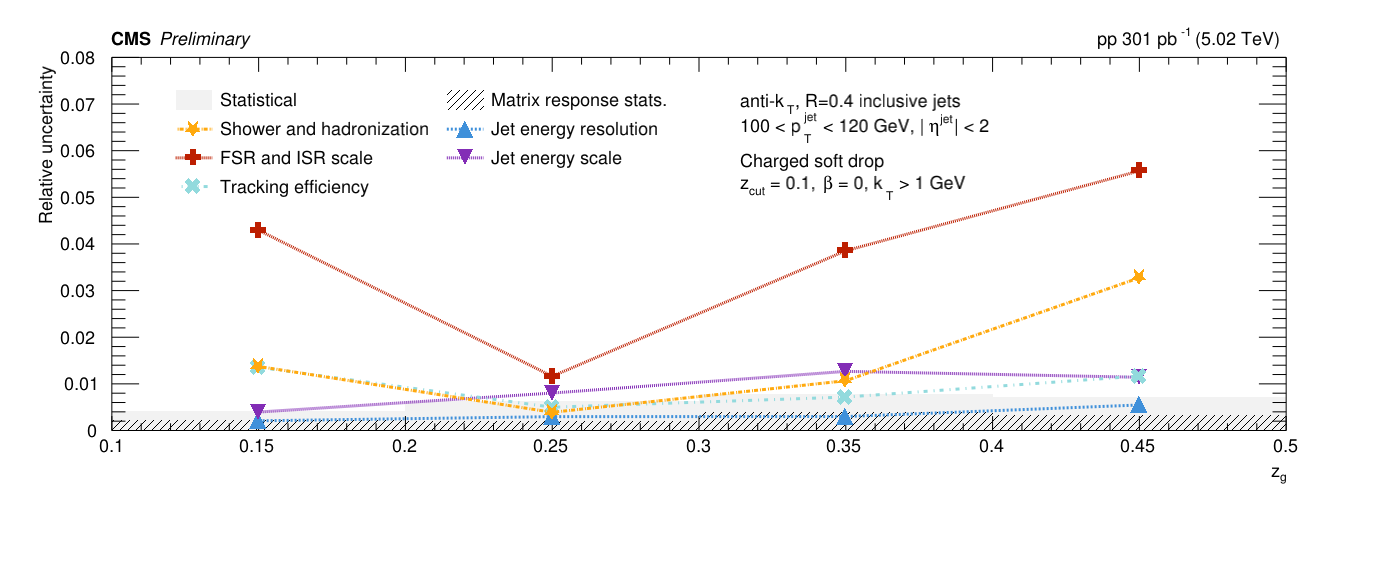
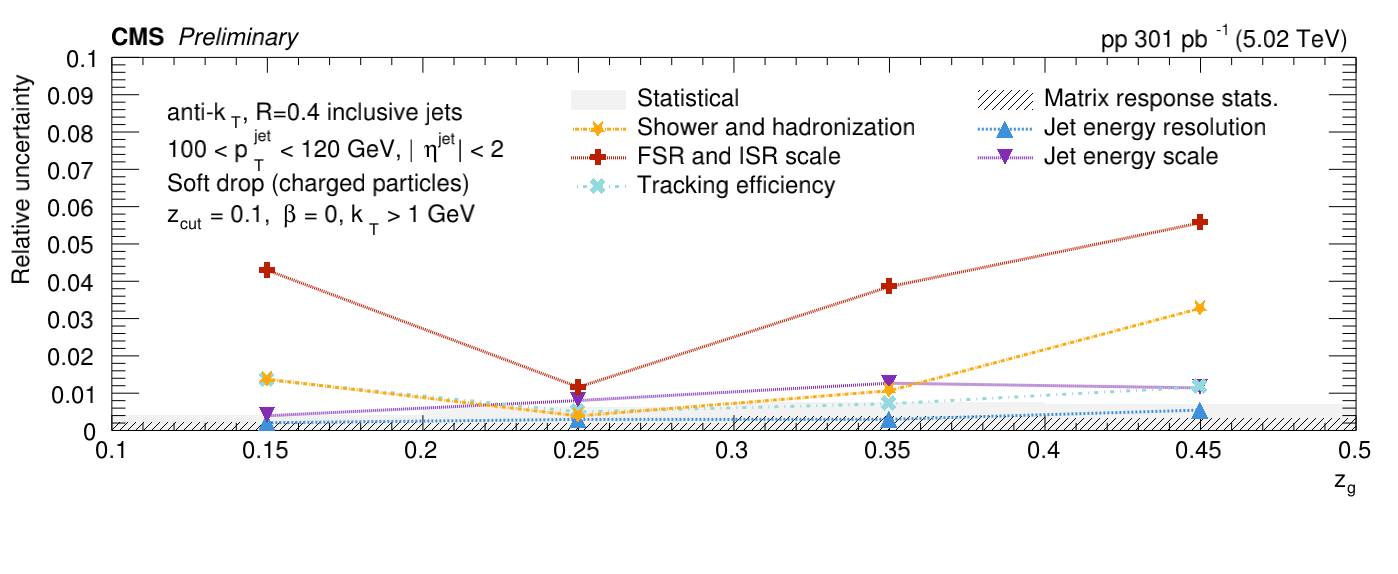
make text bigger in inclusive jet unc plots

diff --git a/myMacros/C106X/uncertanties/draw_unc_sym_inclusive.C b/myMacros/C106X/uncertanties/draw_unc_sym_inclusive.C
@@ -11,7 +11,7 @@ void draw_unc_sym_inclusive(TString observable="rg")
     // Setup
     gStyle->SetCanvasPreferGL(kTRUE);
     gStyle->SetErrorX(0.5);
-    Float_t text_size = 20.;
+    Float_t text_size = 28.;
     gStyle->SetTextSize(text_size);
     gStyle->SetLegendTextSize(text_size);
     gStyle->SetLabelSize(text_size, "XYZ");
@@ -28,7 +28,7 @@ void draw_unc_sym_inclusive(TString observable="rg")
     int nbins_pt = 3;
     
     TCanvas *c_unc = new TCanvas("c_unc", "", 1400,600);
-    c_unc->SetRightMargin(0.08);
+    c_unc->SetRightMargin(0.03);
     c_unc->SetLeftMargin(0.08);
     c_unc->SetBottomMargin(0.25);
 
@@ -158,7 +158,7 @@ void draw_unc_sym_inclusive(TString observable="rg")
     // For lines/symbols : top left, 2 cols
     
     // TLegend *leg = new TLegend(0.2, 0.62, 0.5, 0.87); // log scale
-    TLegend *leg = new TLegend(0.12, 0.65, 0.42, 0.85); // abs scale
+    TLegend *leg = new TLegend(0.4, 0.65, 0.85, 0.85); // abs scale
     if (observable=="zpt") leg = new TLegend(0.45, 0.5, 0.75, 0.75); // abs scale
     leg->SetNColumns(2);
     leg->SetColumnSeparation(0.25); 
@@ -180,8 +180,8 @@ void draw_unc_sym_inclusive(TString observable="rg")
 
     // for abs
     double ymin=0.;
-    double ymax=0.16; // rg
-    if (observable=="zg") ymax = 0.08;
+    double ymax=0.2; // rg
+    if (observable=="zg") ymax = 0.1;
 
     for (auto h : {h_total_unc_up}) {
         h->GetYaxis()->SetRangeUser(ymin, ymax);
@@ -204,6 +204,7 @@ void draw_unc_sym_inclusive(TString observable="rg")
         h->SetLineColorAlpha(kBlack,0);
         h->SetMarkerColor(h->GetLineColor());
         h->GetXaxis()->SetTitle(xlabel);
+        h->GetXaxis()->SetTitleOffset(1.2);
         h->Draw("hist same");
     }
 
@@ -258,7 +259,7 @@ void draw_unc_sym_inclusive(TString observable="rg")
     //     jet_info->SetTextSize(20);
     //     jet_info->DrawLatex(0.2, 0.33, "anti-k_{T}, R=0.4 single b jets");
     //     jet_info->DrawLatex(0.2, 0.28, "100 < p_{T}^{jet} < 120 GeV, |#eta^{jet}| < 2");
-    //     jet_info->DrawLatex(0.2, 0.23, "Charged soft drop emissions");
+    //     jet_info->DrawLatex(0.2, 0.23, "Soft drop (charged particles)");
     //     jet_info->DrawLatex(0.2, 0.18, "z_{cut}=0.1, #beta=0, k_{T} > 1 GeV");
     //     jet_info->Draw();
     // } else {
@@ -270,19 +271,19 @@ void draw_unc_sym_inclusive(TString observable="rg")
     TLatex *jet_info = new TLatex;
     jet_info->SetNDC();
     jet_info->SetTextSize(text_size);
-    if (observable=="rg") {
-        jet_info->SetTextAlign(30);
-        jet_info->DrawLatex(0.89, 0.8, "anti-k_{T}, R=0.4 inclusive jets");
-        jet_info->DrawLatex(0.89, 0.75, "100 < p_{T}^{jet} < 120 GeV, |#eta^{jet}| < 2");
-        jet_info->DrawLatex(0.89, 0.7, "Charged soft drop");
-        jet_info->DrawLatex(0.89, 0.65, "z_{cut} = 0.1, #beta = 0, k_{T} > 1 GeV");
-    } else {
-        jet_info->SetTextAlign(10);
-        jet_info->DrawLatex(0.53, 0.8, "anti-k_{T}, R=0.4 inclusive jets");
-        jet_info->DrawLatex(0.53, 0.75, "100 < p_{T}^{jet} < 120 GeV, |#eta^{jet}| < 2");
-        jet_info->DrawLatex(0.53, 0.7, "Charged soft drop");
-        jet_info->DrawLatex(0.53, 0.65, "z_{cut} = 0.1, #beta = 0, k_{T} > 1 GeV");
-    }
+    // if (observable=="rg") {
+        jet_info->SetTextAlign(12);
+        jet_info->DrawLatex(0.12, 0.8, "anti-k_{T}, R=0.4 inclusive jets");
+        jet_info->DrawLatex(0.12, 0.74, "100 < p_{T}^{jet} < 120 GeV, |#eta^{jet}| < 2");
+        jet_info->DrawLatex(0.12, 0.68, "Soft drop (charged particles)");
+        jet_info->DrawLatex(0.12, 0.62, "z_{cut} = 0.1, #beta = 0, k_{T} > 1 GeV");
+    // } else {
+    //     jet_info->SetTextAlign(10);
+    //     jet_info->DrawLatex(0.53, 0.8, "anti-k_{T}, R=0.4 inclusive jets");
+    //     jet_info->DrawLatex(0.53, 0.74, "100 < p_{T}^{jet} < 120 GeV, |#eta^{jet}| < 2");
+    //     jet_info->DrawLatex(0.53, 0.68, "Soft drop (charged particles)");
+    //     jet_info->DrawLatex(0.53, 0.62, "z_{cut} = 0.1, #beta = 0, k_{T} > 1 GeV");
+    // }
 
 
     // bottom, 2 cols 
@@ -304,15 +305,15 @@ void draw_unc_sym_inclusive(TString observable="rg")
     // }
 
     if (observable=="rg") {
-        auto axis5 = new TGaxis(2.1, -0.027, 0. ,-0.027, 0.048982571, 0.4, 510,"NIGS-");
+        auto axis5 = new TGaxis(2.1, -0.045, 0. ,-0.045, 0.048982571, 0.4, 510,"NIGS-");
         axis5->SetTitle("R_{g}");
         axis5->CenterTitle();
         axis5->SetTitleFont(43);
         axis5->SetTitleSize(text_size);
-        axis5->SetTitleOffset(1.4);
+        axis5->SetTitleOffset(0.9);
         axis5->SetLabelFont(43);
         axis5->SetLabelSize(text_size);
-        axis5->SetLabelOffset(0.055);
+        axis5->SetLabelOffset(0.08);
         axis5->SetTickSize(0.02);
         axis5->SetMoreLogLabels(); // add the secondary tick labels
         axis5->SetNoExponent();
